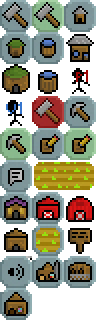
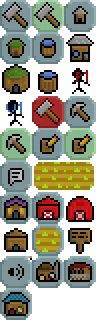
Updated buildings

Changed region(s): [[0.0312, 0.9062, 0.3125, 1.0], [0.375, 0.8125, 0.5625, 0.875], [0.7188, 0.8125, 0.9375, 0.875]]

diff --git a/build.js b/build.js
@@ -92,21 +92,21 @@ const buildings = {
     "bakery":  {
         collisionShape: gameify.shapes.Rectangle,
         collisionArgs: [6, 18, 54, 40],
-        image: buildingTileset.getTile(1, 8),
+        image: buildingMapTileset.getTile(0, 1),
         cost: { wood: 15, stone: 25 },
         unlocked: false,
     },
     "stable":  {
         collisionShape: gameify.shapes.Rectangle,
         collisionArgs: [6, 18, 54, 40],
-        image: buildingTileset.getTile(2, 8),
+        image: buildingMapTileset.getTile(1, 1),
         cost: { wood: 40, stone: 5, gold: 2 },
         unlocked: false,
     },
     "tailor":  {
         collisionShape: gameify.shapes.Rectangle,
         collisionArgs: [6, 18, 54, 40],
-        image: buildingTileset.getTile(0, 9),
+        image: buildingMapTileset.getTile(2, 1),
         cost: { wood: 10, stone: 10, gold: 10 },
         unlocked: false,
     },

diff --git a/signs.js b/signs.js
@@ -1,8 +1,8 @@
 import { dialogue } from './dialogue.js';
 import { gameify } from './gameify/gameify.js';
 
-const buildingTileset = new gameify.Tileset("images/builditembuttons.png", 32, 32);
-const signImage = buildingTileset.getTile(2, 7);
+const buildingMapTileset = new gameify.Tileset("images/buildings_alex.png", 32, 32);
+const signImage = buildingMapTileset.getTile(3, 1);
 
 
 const popupImage = new gameify.Image('images/e_read_popup.png');
